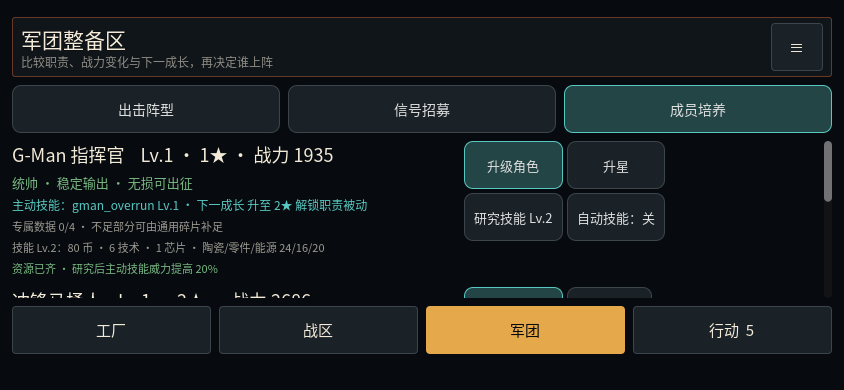
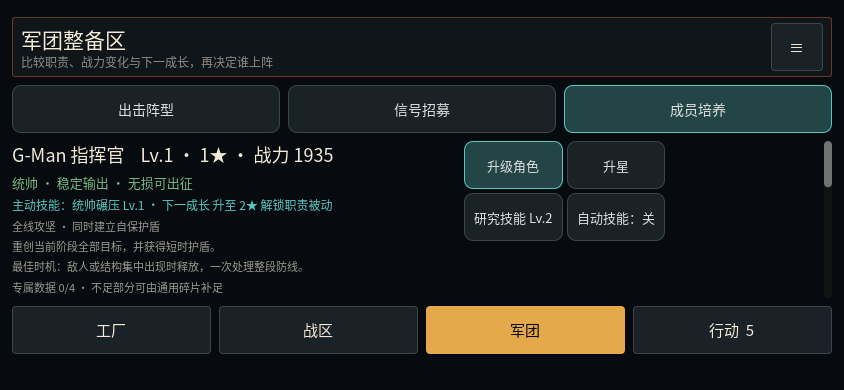
feat: teach active skill roles and timing

Changed region(s): [[0.0, 0.4923, 0.4313, 0.7692], [0.5237, 0.7385, 0.7701, 0.7692], [0.955, 0.4615, 0.9858, 0.5231]]

diff --git a/docs/references/indexes/file-ownership.md b/docs/references/indexes/file-ownership.md
@@ -65,6 +65,7 @@ related:
 | `project-a/game/scripts/content/objective_hurdle_*.gd`、`project-a/game/resources/definitions/objectives/hurdles/**` | authored-content | 首章大小卡点 typed 定义、固定索引与内容校验；不持有运行进度 | present / definition + projection tests |
 | `project-a/game/scripts/content/onboarding_*_definition.gd`、`project-a/game/scripts/content/onboarding_definition_catalog.gd`、`project-a/game/resources/definitions/onboarding/**` | authored-content | 首章七任务、十目标、CTA 与奖励预算的 typed 定义和固定索引；不持有进度或执行发奖 | present / onboarding definition + journey tests |
 | `project-a/game/scripts/content/research_breakthrough_*.gd`、`project-a/game/resources/definitions/research/breakthrough/**` | authored-content | 免费突破十连十卡配方、援军/资源预算与内容校验；不执行发奖 | present / breakthrough + first-formation tests |
+| `project-a/game/scripts/content/active_skill_*.gd`、`project-a/game/resources/definitions/skills/active/**` | authored-content | 九个主动技能的稳定 ID、中文名称、职责、真实效果与释放时机；不持有战斗运行态 | present / active-skill definition + battle HUD tests |
 | `project-a/game/scripts/domain/achievement/**` | domain-kernel | 24 个永久一次性成就、可靠回填、event key 去重、成就领取 | present / Meta + UI smoke |
 | `project-a/game/scripts/domain/{equipment,idle}/**` | domain-kernel | 装备、离线规则 | absent / deferred |
 | `project-a/game/scripts/persistence/**` | persistence | 严格 JSON schema、2 MiB 上限、candidate writer、主档/备份与导入恢复 | present / Meta headless tests |
